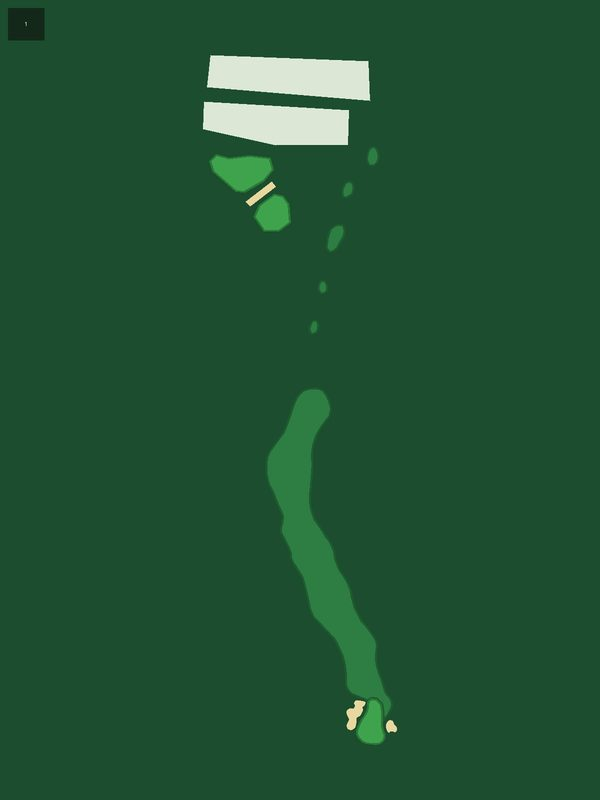
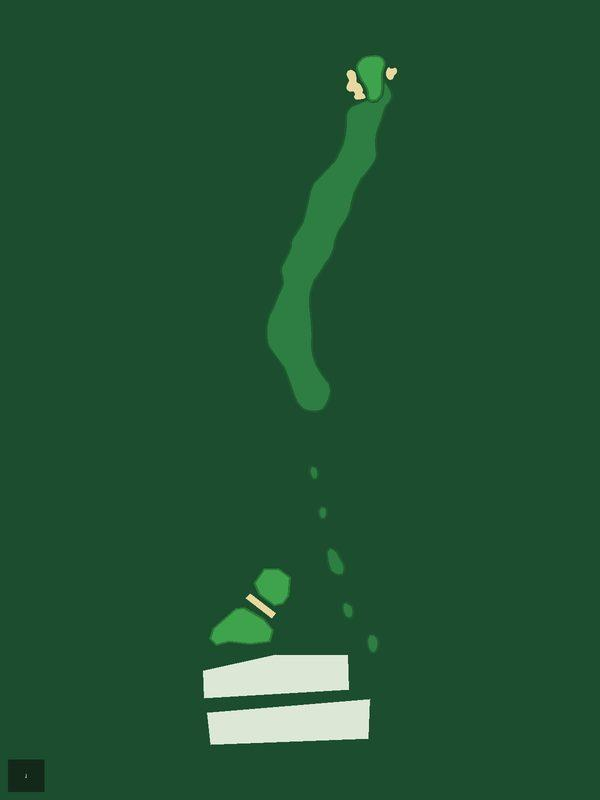
Valhalla Golf Club: fix map geometry (H1 flip, H2/H4 water removal, H3 pond, H6 water/fairway) + 27 to-pin markers + distance scales
- H1: flipped map+mask vertically (was inverted); tee/pin now correct
- H2: removed spurious water polygon covering fairway (screenshot: no water)
- H4: removed spurious river arcing left/bottom (screenshot: no water)
- H3: added missing mid-hole pond right of tee-to-green line
- H6: shrunk water to upper hole only, removed bunker-in-water, fairway full length
- 27 validated to-pin markers across 11 holes (Tier A header-validated + Tier B pill-calibrated)
- yardsPerPixel on 17/18 holes (H13 omitted: header reads impossible 140y, needs retake)
- Honest exclusions: H1/H2/H7/H10/H12/H13/H16 have no markers (no validatable pills)

Changed region(s): [[0.33, 0.0625, 0.66, 0.9375], [0.0, 0.9375, 0.09, 1.0], [0.0, 0.0, 0.09, 0.0625]]

diff --git a/app/lib/widgets/hole_map_manifest.dart b/app/lib/widgets/hole_map_manifest.dart
@@ -352,24 +352,24 @@ const holeMapManifest = <String, Map<int, HoleMapAsset>>{
     18: HoleMapAsset(par: 4, map: 'assets/hole_maps/riviera-country-club/18.jpg', mask: 'assets/hole_maps/riviera-country-club/18_mask.png', tee: Offset(0.486, 0.843), pin: Offset(0.486, 0.180), source: 'osm'),
   },
   'Valhalla Golf Club': {
-    1: HoleMapAsset(par: 4, map: 'assets/hole_maps/valhalla-golf-club/1.jpg', mask: 'assets/hole_maps/valhalla-golf-club/1_mask.png', tee: Offset(0.621, 0.904), pin: Offset(0.404, 0.214), source: 'osm'),
-    2: HoleMapAsset(par: 5, map: 'assets/hole_maps/valhalla-golf-club/2.jpg', mask: 'assets/hole_maps/valhalla-golf-club/2_mask.png', tee: Offset(0.384, 0.922), pin: Offset(0.388, 0.139), source: 'osm'),
-    3: HoleMapAsset(par: 3, map: 'assets/hole_maps/valhalla-golf-club/3.jpg', mask: 'assets/hole_maps/valhalla-golf-club/3_mask.png', tee: Offset(0.517, 0.901), pin: Offset(0.513, 0.155), source: 'mixed'),
-    4: HoleMapAsset(par: 4, map: 'assets/hole_maps/valhalla-golf-club/4.jpg', mask: 'assets/hole_maps/valhalla-golf-club/4_mask.png', tee: Offset(0.323, 0.665), pin: Offset(0.323, 0.179), source: 'mixed'),
-    5: HoleMapAsset(par: 4, map: 'assets/hole_maps/valhalla-golf-club/5.jpg', mask: 'assets/hole_maps/valhalla-golf-club/5_mask.png', tee: Offset(0.589, 0.904), pin: Offset(0.593, 0.092), source: 'mixed'),
-    6: HoleMapAsset(par: 4, map: 'assets/hole_maps/valhalla-golf-club/6.jpg', mask: 'assets/hole_maps/valhalla-golf-club/6_mask.png', tee: Offset(0.622, 0.909), pin: Offset(0.622, 0.160), source: 'mixed'),
-    7: HoleMapAsset(par: 5, map: 'assets/hole_maps/valhalla-golf-club/7.jpg', mask: 'assets/hole_maps/valhalla-golf-club/7_mask.png', tee: Offset(0.420, 0.923), pin: Offset(0.420, 0.096), source: 'osm'),
-    8: HoleMapAsset(par: 3, map: 'assets/hole_maps/valhalla-golf-club/8.jpg', mask: 'assets/hole_maps/valhalla-golf-club/8_mask.png', tee: Offset(0.492, 0.895), pin: Offset(0.494, 0.156), source: 'mixed'),
-    9: HoleMapAsset(par: 4, map: 'assets/hole_maps/valhalla-golf-club/9.jpg', mask: 'assets/hole_maps/valhalla-golf-club/9_mask.png', tee: Offset(0.559, 0.920), pin: Offset(0.559, 0.104), source: 'osm'),
-    10: HoleMapAsset(par: 5, map: 'assets/hole_maps/valhalla-golf-club/10.jpg', mask: 'assets/hole_maps/valhalla-golf-club/10_mask.png', tee: Offset(0.461, 0.891), pin: Offset(0.463, 0.155), source: 'osm'),
-    11: HoleMapAsset(par: 4, map: 'assets/hole_maps/valhalla-golf-club/11.jpg', mask: 'assets/hole_maps/valhalla-golf-club/11_mask.png', tee: Offset(0.477, 0.905), pin: Offset(0.478, 0.129), source: 'osm'),
-    12: HoleMapAsset(par: 4, map: 'assets/hole_maps/valhalla-golf-club/12.jpg', mask: 'assets/hole_maps/valhalla-golf-club/12_mask.png', tee: Offset(0.549, 0.923), pin: Offset(0.549, 0.202), source: 'osm'),
+    1: HoleMapAsset(par: 4, map: 'assets/hole_maps/valhalla-golf-club/1.jpg', mask: 'assets/hole_maps/valhalla-golf-club/1_mask.png', tee: Offset(0.621, 0.904), pin: Offset(0.404, 0.214), source: 'osm', yardsPerPixel: 0.8657),
+    2: HoleMapAsset(par: 5, map: 'assets/hole_maps/valhalla-golf-club/2.jpg', mask: 'assets/hole_maps/valhalla-golf-club/2_mask.png', tee: Offset(0.381, 0.922), pin: Offset(0.385, 0.104), source: 'osm', yardsPerPixel: 0.8038),
+    3: HoleMapAsset(par: 3, map: 'assets/hole_maps/valhalla-golf-club/3.jpg', mask: 'assets/hole_maps/valhalla-golf-club/3_mask.png', tee: Offset(0.446, 0.901), pin: Offset(0.442, 0.155), source: 'mixed', yardages: const [YardageMarker(offset: Offset(0.494, 0.095), yards: -13), YardageMarker(offset: Offset(0.394, 0.168), yards: 7), YardageMarker(offset: Offset(0.468, 0.260), yards: 30), YardageMarker(offset: Offset(0.356, 0.563), yards: 109)], yardsPerPixel: 0.3418),
+    4: HoleMapAsset(par: 4, map: 'assets/hole_maps/valhalla-golf-club/4.jpg', mask: 'assets/hole_maps/valhalla-golf-club/4_mask.png', tee: Offset(0.405, 0.900), pin: Offset(0.404, 0.109), source: 'mixed', yardages: const [YardageMarker(offset: Offset(0.469, 0.370), yards: 133), YardageMarker(offset: Offset(0.601, 0.286), yards: 88)], yardsPerPixel: 0.5768),
+    5: HoleMapAsset(par: 4, map: 'assets/hole_maps/valhalla-golf-club/5.jpg', mask: 'assets/hole_maps/valhalla-golf-club/5_mask.png', tee: Offset(0.589, 0.904), pin: Offset(0.593, 0.092), source: 'mixed', yardages: const [YardageMarker(offset: Offset(0.424, 0.334), yards: 151), YardageMarker(offset: Offset(0.396, 0.368), yards: 173), YardageMarker(offset: Offset(0.520, 0.359), yards: 150)], yardsPerPixel: 0.6907),
+    6: HoleMapAsset(par: 4, map: 'assets/hole_maps/valhalla-golf-club/6.jpg', mask: 'assets/hole_maps/valhalla-golf-club/6_mask.png', tee: Offset(0.622, 0.909), pin: Offset(0.622, 0.160), source: 'mixed', yardages: const [YardageMarker(offset: Offset(0.518, 0.464), yards: 222), YardageMarker(offset: Offset(0.581, 0.534), yards: 263)], yardsPerPixel: 0.8178),
+    7: HoleMapAsset(par: 5, map: 'assets/hole_maps/valhalla-golf-club/7.jpg', mask: 'assets/hole_maps/valhalla-golf-club/7_mask.png', tee: Offset(0.420, 0.923), pin: Offset(0.420, 0.096), source: 'osm', yardsPerPixel: 0.8812),
+    8: HoleMapAsset(par: 3, map: 'assets/hole_maps/valhalla-golf-club/8.jpg', mask: 'assets/hole_maps/valhalla-golf-club/8_mask.png', tee: Offset(0.492, 0.895), pin: Offset(0.494, 0.156), source: 'mixed', yardages: const [YardageMarker(offset: Offset(0.392, 0.174), yards: 11), YardageMarker(offset: Offset(0.523, 0.194), yards: 17)], yardsPerPixel: 0.3129),
+    9: HoleMapAsset(par: 4, map: 'assets/hole_maps/valhalla-golf-club/9.jpg', mask: 'assets/hole_maps/valhalla-golf-club/9_mask.png', tee: Offset(0.559, 0.920), pin: Offset(0.559, 0.104), source: 'osm', yardages: const [YardageMarker(offset: Offset(0.409, 0.295), yards: 109), YardageMarker(offset: Offset(0.391, 0.351), yards: 139), YardageMarker(offset: Offset(0.497, 0.331), yards: 131), YardageMarker(offset: Offset(0.509, 0.390), yards: 153)], yardsPerPixel: 0.6296),
+    10: HoleMapAsset(par: 5, map: 'assets/hole_maps/valhalla-golf-club/10.jpg', mask: 'assets/hole_maps/valhalla-golf-club/10_mask.png', tee: Offset(0.461, 0.891), pin: Offset(0.463, 0.155), source: 'osm', yardsPerPixel: 0.9884),
+    11: HoleMapAsset(par: 4, map: 'assets/hole_maps/valhalla-golf-club/11.jpg', mask: 'assets/hole_maps/valhalla-golf-club/11_mask.png', tee: Offset(0.477, 0.905), pin: Offset(0.478, 0.129), source: 'osm', yardages: const [YardageMarker(offset: Offset(0.524, 0.107), yards: -11), YardageMarker(offset: Offset(0.449, 0.219), yards: 25)], yardsPerPixel: 0.3398),
+    12: HoleMapAsset(par: 4, map: 'assets/hole_maps/valhalla-golf-club/12.jpg', mask: 'assets/hole_maps/valhalla-golf-club/12_mask.png', tee: Offset(0.549, 0.923), pin: Offset(0.549, 0.202), source: 'osm', yardsPerPixel: 0.8426),
     13: HoleMapAsset(par: 4, map: 'assets/hole_maps/valhalla-golf-club/13.jpg', mask: 'assets/hole_maps/valhalla-golf-club/13_mask.png', tee: Offset(0.456, 0.919), pin: Offset(0.456, 0.198), source: 'osm'),
-    14: HoleMapAsset(par: 3, map: 'assets/hole_maps/valhalla-golf-club/14.jpg', mask: 'assets/hole_maps/valhalla-golf-club/14_mask.png', tee: Offset(0.579, 0.893), pin: Offset(0.580, 0.129), source: 'mixed'),
-    15: HoleMapAsset(par: 4, map: 'assets/hole_maps/valhalla-golf-club/15.jpg', mask: 'assets/hole_maps/valhalla-golf-club/15_mask.png', tee: Offset(0.448, 0.907), pin: Offset(0.450, 0.154), source: 'mixed'),
-    16: HoleMapAsset(par: 4, map: 'assets/hole_maps/valhalla-golf-club/16.jpg', mask: 'assets/hole_maps/valhalla-golf-club/16_mask.png', tee: Offset(0.538, 0.909), pin: Offset(0.537, 0.098), source: 'mixed'),
-    17: HoleMapAsset(par: 4, map: 'assets/hole_maps/valhalla-golf-club/17.jpg', mask: 'assets/hole_maps/valhalla-golf-club/17_mask.png', tee: Offset(0.466, 0.907), pin: Offset(0.467, 0.106), source: 'mixed'),
-    18: HoleMapAsset(par: 5, map: 'assets/hole_maps/valhalla-golf-club/18.jpg', mask: 'assets/hole_maps/valhalla-golf-club/18_mask.png', tee: Offset(0.551, 0.924), pin: Offset(0.544, 0.118), source: 'osm'),
+    14: HoleMapAsset(par: 3, map: 'assets/hole_maps/valhalla-golf-club/14.jpg', mask: 'assets/hole_maps/valhalla-golf-club/14_mask.png', tee: Offset(0.579, 0.893), pin: Offset(0.580, 0.129), source: 'mixed', yardages: const [YardageMarker(offset: Offset(0.565, 0.108), yards: -8), YardageMarker(offset: Offset(0.530, 0.149), yards: 14), YardageMarker(offset: Offset(0.646, 0.139), yards: 16), YardageMarker(offset: Offset(0.606, 0.174), yards: 16)], yardsPerPixel: 0.4100),
+    15: HoleMapAsset(par: 4, map: 'assets/hole_maps/valhalla-golf-club/15.jpg', mask: 'assets/hole_maps/valhalla-golf-club/15_mask.png', tee: Offset(0.448, 0.907), pin: Offset(0.450, 0.154), source: 'mixed', yardages: const [YardageMarker(offset: Offset(0.529, 0.401), yards: 146)], yardsPerPixel: 0.7221),
+    16: HoleMapAsset(par: 4, map: 'assets/hole_maps/valhalla-golf-club/16.jpg', mask: 'assets/hole_maps/valhalla-golf-club/16_mask.png', tee: Offset(0.538, 0.909), pin: Offset(0.537, 0.098), source: 'mixed', yardsPerPixel: 0.7891),
+    17: HoleMapAsset(par: 4, map: 'assets/hole_maps/valhalla-golf-club/17.jpg', mask: 'assets/hole_maps/valhalla-golf-club/17_mask.png', tee: Offset(0.466, 0.907), pin: Offset(0.467, 0.106), source: 'mixed', yardages: const [YardageMarker(offset: Offset(0.471, 0.374), yards: 164)], yardsPerPixel: 0.7241),
+    18: HoleMapAsset(par: 5, map: 'assets/hole_maps/valhalla-golf-club/18.jpg', mask: 'assets/hole_maps/valhalla-golf-club/18_mask.png', tee: Offset(0.551, 0.924), pin: Offset(0.544, 0.118), source: 'osm', yardages: const [YardageMarker(offset: Offset(0.364, 0.426), yards: 239), YardageMarker(offset: Offset(0.467, 0.424), yards: 221)], yardsPerPixel: 0.8886),
   },
   'Wolf Creek Golf Club': {
     1: HoleMapAsset(par: 5, map: 'assets/hole_maps/wolf-creek-golf-club/1.jpg', mask: 'assets/hole_maps/wolf-creek-golf-club/1_mask.png', tee: Offset(0.464, 0.920), pin: Offset(0.471, 0.097), source: 'osm', yardages: const [YardageMarker(offset: Offset(0.369, 0.373), yards: 175), YardageMarker(offset: Offset(0.621, 0.447), yards: 225), YardageMarker(offset: Offset(0.367, 0.526), yards: 267)], yardsPerPixel: 0.7655),
